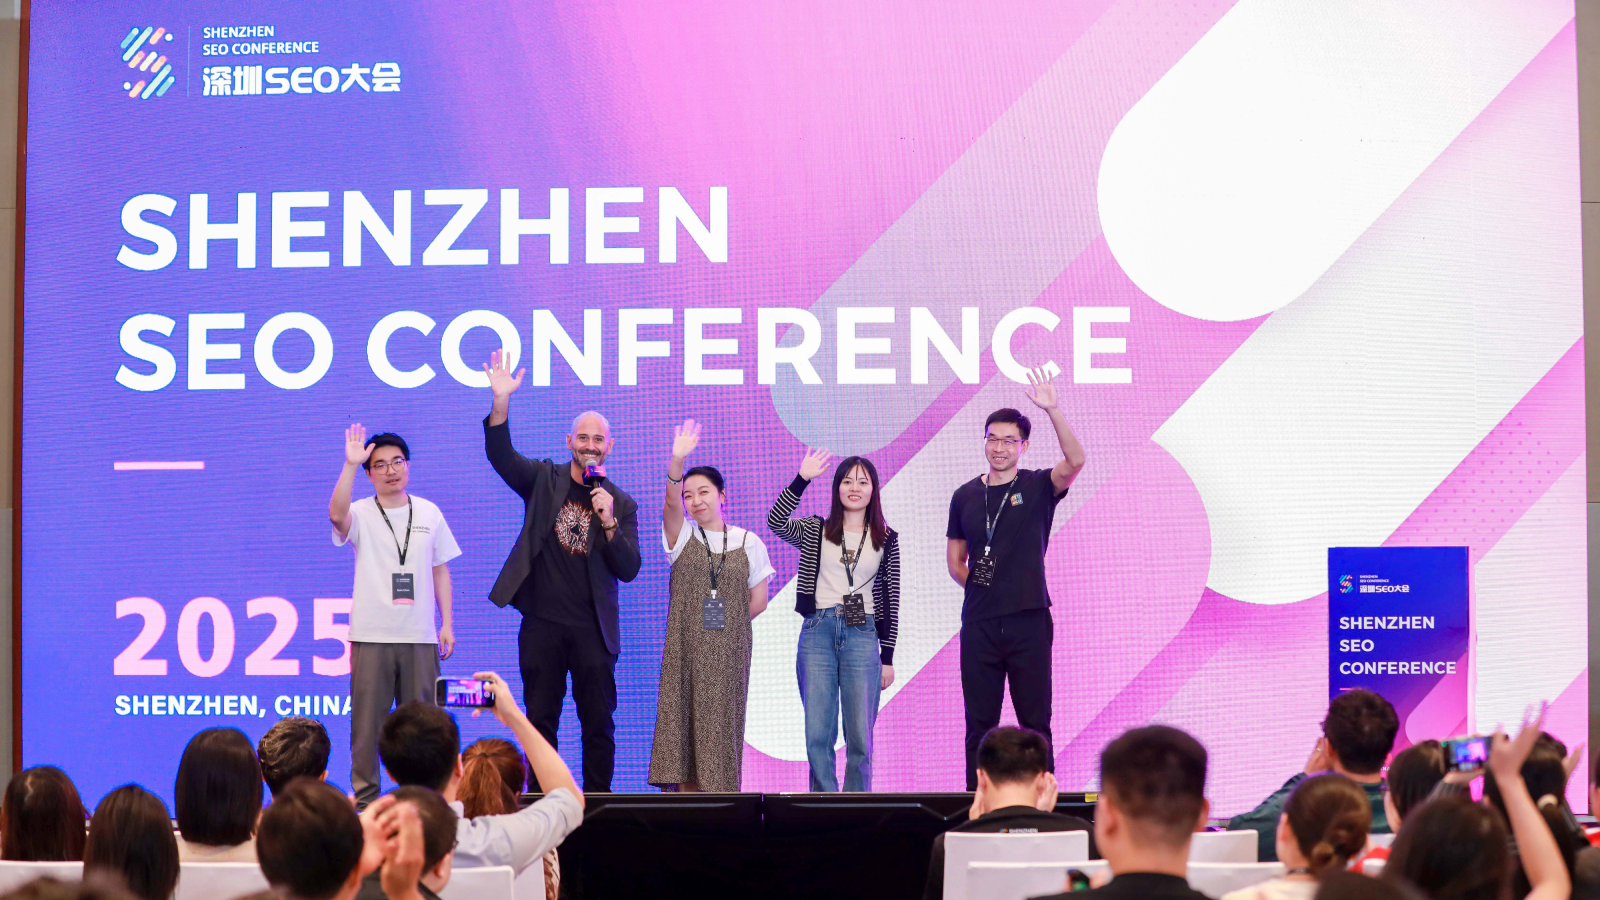
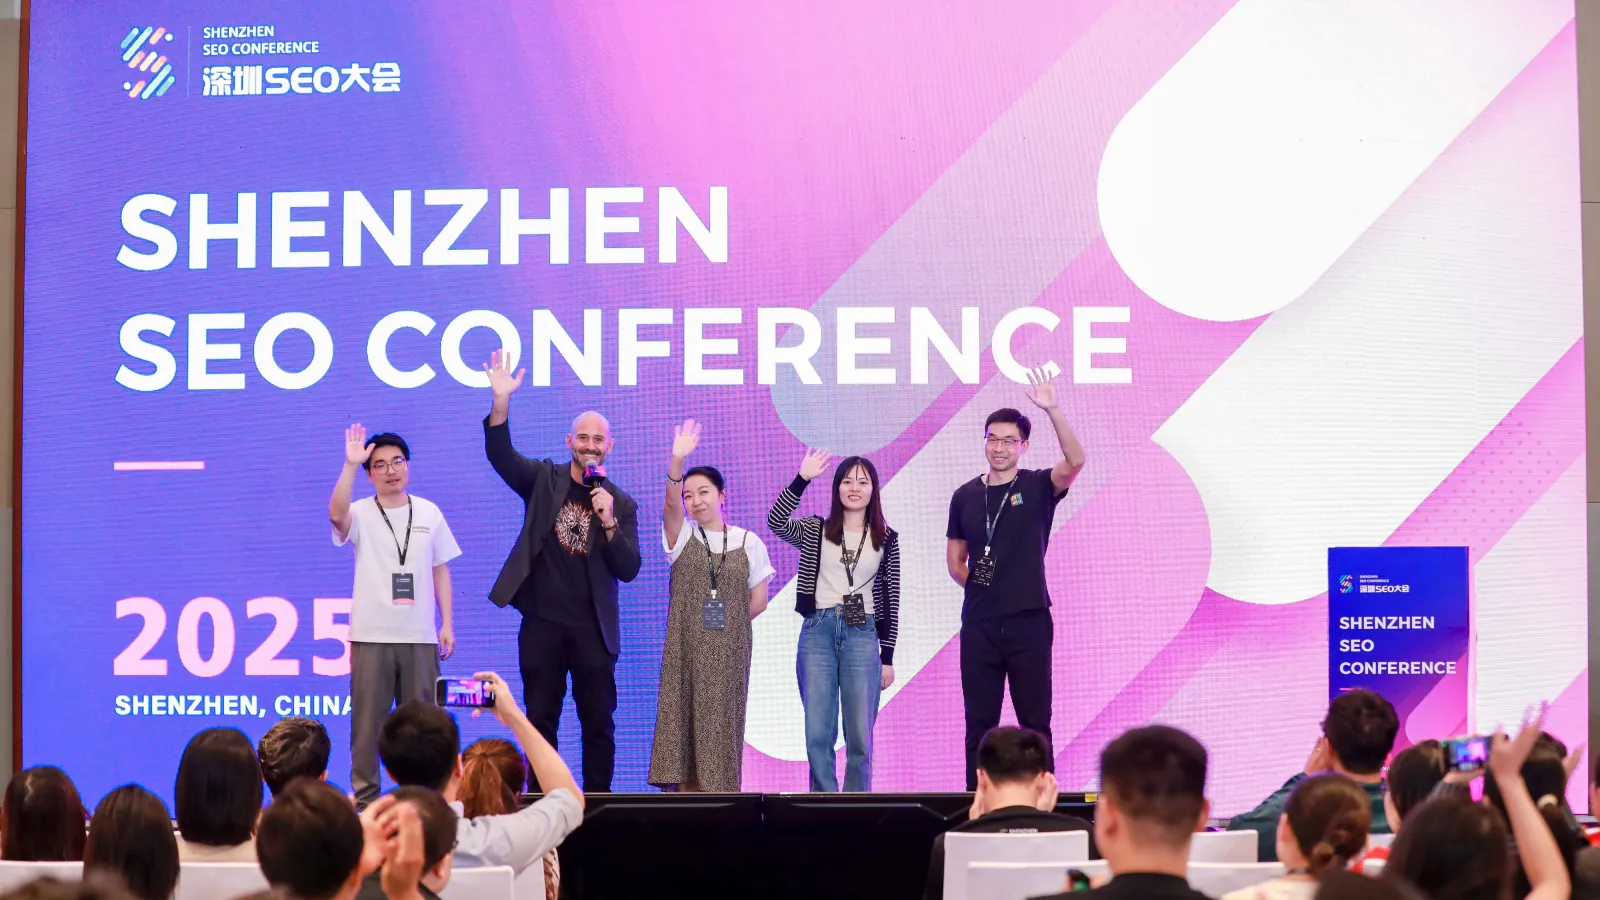
Image perf: real WebP at q=80 for hero + day tabs + benefit cards
Hero on /speakers5 and /sponsors5, all day-tab photos, and the benefit
cards (full-logistics-handled, guided-shenzhen, chinese-audience,
speakers-talk, jp-talk) were oversized PNGs/JPGs. Re-encoded with
cwebp -q 80 -m 6 and updated code references. Net image payload across
the new pages drops from ~30MB to ~2MB with no visible quality loss.

diff --git a/app/(home5)/speakers5/page.tsx b/app/(home5)/speakers5/page.tsx
@@ -71,22 +71,22 @@ const BENEFITS = [
   {
     title: 'Full Logistics, Handled.',
     body: 'Invitation letters, airport pick-up and drop-off, hotel bookings. You land and focus on the talk and networking.',
-    img: '/assets/full-logistics-handled.png',
+    img: '/assets/full-logistics-handled.webp',
   },
   {
     title: '1 Full Day of Guided Shenzhen.',
     body: 'Huaqiangbei, Nantou walled city, tech companies, the bay, the factories. Not a tourist loop — the working city.',
-    img: '/assets/guided-shenzhen.png',
+    img: '/assets/guided-shenzhen.webp',
   },
   {
     title: "A Chinese Audience You Won't Find at Brighton or Pubcon.",
     body: "300+ in-house SEO decision makers from brands going global. They don't travel to London or San Diego.",
-    img: '/assets/chinese-audience.png',
+    img: '/assets/chinese-audience.webp',
   },
   {
     title: 'Speakers Talk, Then They Stay.',
     body: 'Most stay through the week. The actual conversations happen on Day 1, 2 and 5 (after the stage).',
-    img: '/assets/speakers-talk.png',
+    img: '/assets/speakers-talk.webp',
   },
 ];
 
@@ -257,7 +257,7 @@ function Hero() {
     <section id="top" className="relative isolate overflow-hidden bg-[#03060d]">
       <div className="absolute inset-0 -z-10">
         <Image
-          src="/assets/speakers-hero2.webp"
+          src="/assets/speakers-hero.webp"
           alt=""
           fill
           priority
@@ -1017,7 +1017,7 @@ function Criteria() {
             style={{
               borderRadius: 24,
               background:
-                "url('/assets/jp-talk.png') 50% / cover no-repeat #d3d3d3",
+                "url('/assets/jp-talk.webp') 50% / cover no-repeat #d3d3d3",
             }}
           />
           <div className="flex flex-col gap-6 md:max-w-[560px] md:w-full md:flex-1">

diff --git a/app/(home5)/page.tsx b/app/(home5)/page.tsx
@@ -1018,7 +1018,7 @@ function Speakers() {
     { country: 'CA', name: 'Megan Gougeon', sub: 'Founder, Portable Professional', img: '/figma-assets/Megan-Gougeon1.jpg' },
     { country: 'US', name: 'Doug Pierce', sub: 'Founder, Cogney', img: '/figma-assets/Doug-Pierce1.jpg' },
     { country: 'US', name: 'Victor Huynh', sub: 'CEO & Head of Digital Strategy, Ready Artwork', img: '/figma-assets/Victor-Huynh1.jpg' },
-    { country: 'UK · DE', name: 'Jonathan Kiekbusch', sub: 'Founder, SwishDM', img: '/assets/jonathan-kiekbusch.jpg' },
+    { country: 'UK · DE', name: 'Jonathan Kiekbusch', sub: 'Founder, SwishDM', img: '/assets/jonathan-kiekbusch.webp' },
     { country: 'UK', name: 'Owain Lloyd-Williams', sub: 'Independent SEO Consultant', img: '/figma-assets/Owain-Lloyd-Williams1.jpg' },
     { country: 'AU · CN', name: 'Loki Yan', sub: 'Co-founder, First Optimise (壹优化)', img: '/figma-assets/Loki-Yan1.jpg' },
   ];

diff --git a/app/(home5)/sponsors5/page.tsx b/app/(home5)/sponsors5/page.tsx
@@ -263,7 +263,7 @@ function Hero() {
     <section id="top" className="relative isolate overflow-hidden bg-[#03060d]">
       <div className="absolute inset-0 -z-10">
         <Image
-          src="/assets/sponsors-hero.jpg"
+          src="/assets/sponsors-hero.webp"
           alt=""
           fill
           priority
